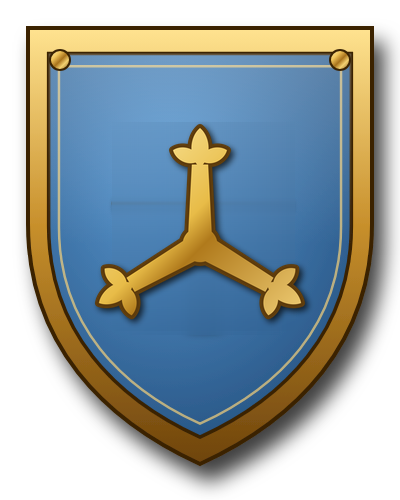
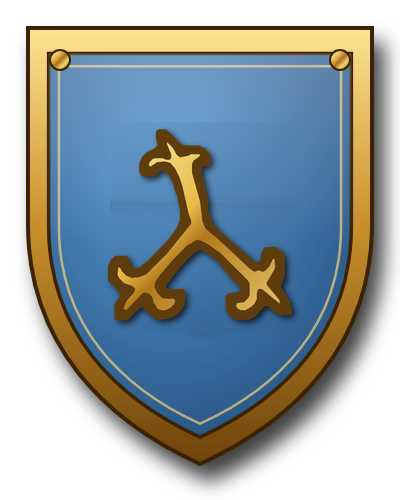
Use several: MP items too; priest emblem traced from the game's
- Use several also offered on Magic water and the Sage's and Elfin elixirs
  (used one after another, as the heals).
- Priest: the plate's and crest's symbol is now the game's own emblem,
  traced from a capture (upscaled with Real-ESRGAN anime), its black
  outline kept, recoloured silver and gold.

Claude-Session: https://claude.ai/code/session_01G62FC9HnQNvdeoAxo1zKLa

Changed region(s): [[0.24, 0.24, 0.78, 0.66]]

diff --git a/runtime/multiuse.c b/runtime/multiuse.c
@@ -1,6 +1,6 @@
 /* Use several at once (multiuse.h). On an everyday item the party has more
  * than one of (a fixed heal: Medicinal herb and the Strong, Special and
- * Superior medicines; or a seed), the item's "What do you want to do?" has
+ * Superior medicines; Magic water, the Sage's and Elfin elixirs; or a seed), the item's "What do you want to do?" has
  * one more row under Use: "Use several". Chosen (with A, a touch or the
  * mouse), the game asks "To whom?" as for Use; the companion chosen, a small
  * window opens beside it, "How many?", then "Use 5 Seeds of Strength on
@@ -80,8 +80,8 @@ static int level(void) { uint32_t o = obj(); return o ? r8(o + OBJ_WM + WM_LEVEL
 static int message(void) { return r32(MSG_OBJ) != 0; }
 
 /* the items it is for: the fixed heals (not the leaf or dew of Yggdrasil, the
- * elixirs, the antidotes) and the seeds */
-static int several(uint16_t id) { return (id >= 0x55F0 && id <= 0x55F3) || (id >= 0x561D && id <= 0x5625); }
+ * antidotes), the ones for MP (Magic water, Sage's and Elfin elixirs) and the seeds */
+static int several(uint16_t id) { return (id >= 0x55F0 && id <= 0x55F3) || (id >= 0x55FF && id <= 0x5601) || (id >= 0x561D && id <= 0x5625); }
 
 static int bag_count(uint16_t id) {
     for (int i = 0; i < BAG_N; i++) { uint16_t k = r16(BAG_IDS + 2u * i); if (k == 0xFFFF) break; if (k == id) return r8(BAG_COUNTS + (uint32_t)i); }
